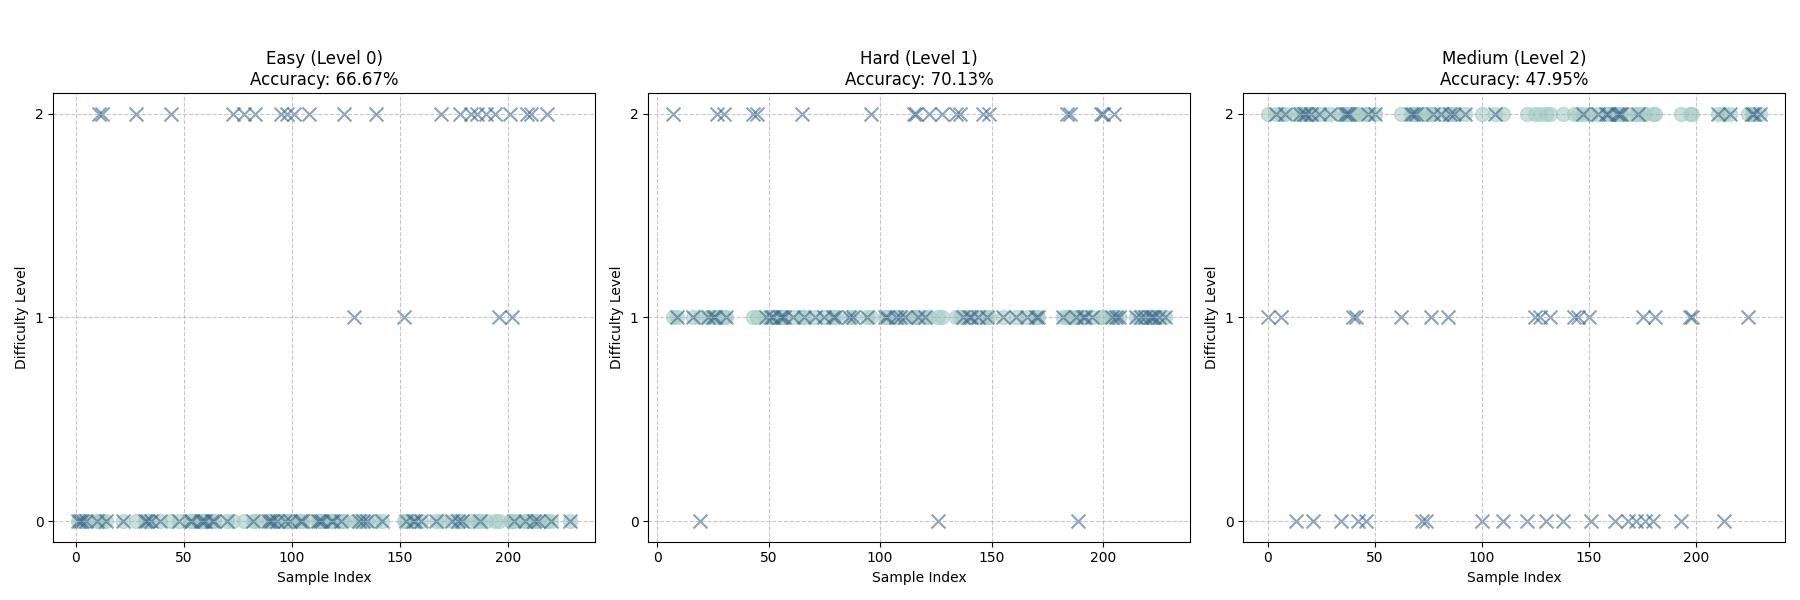
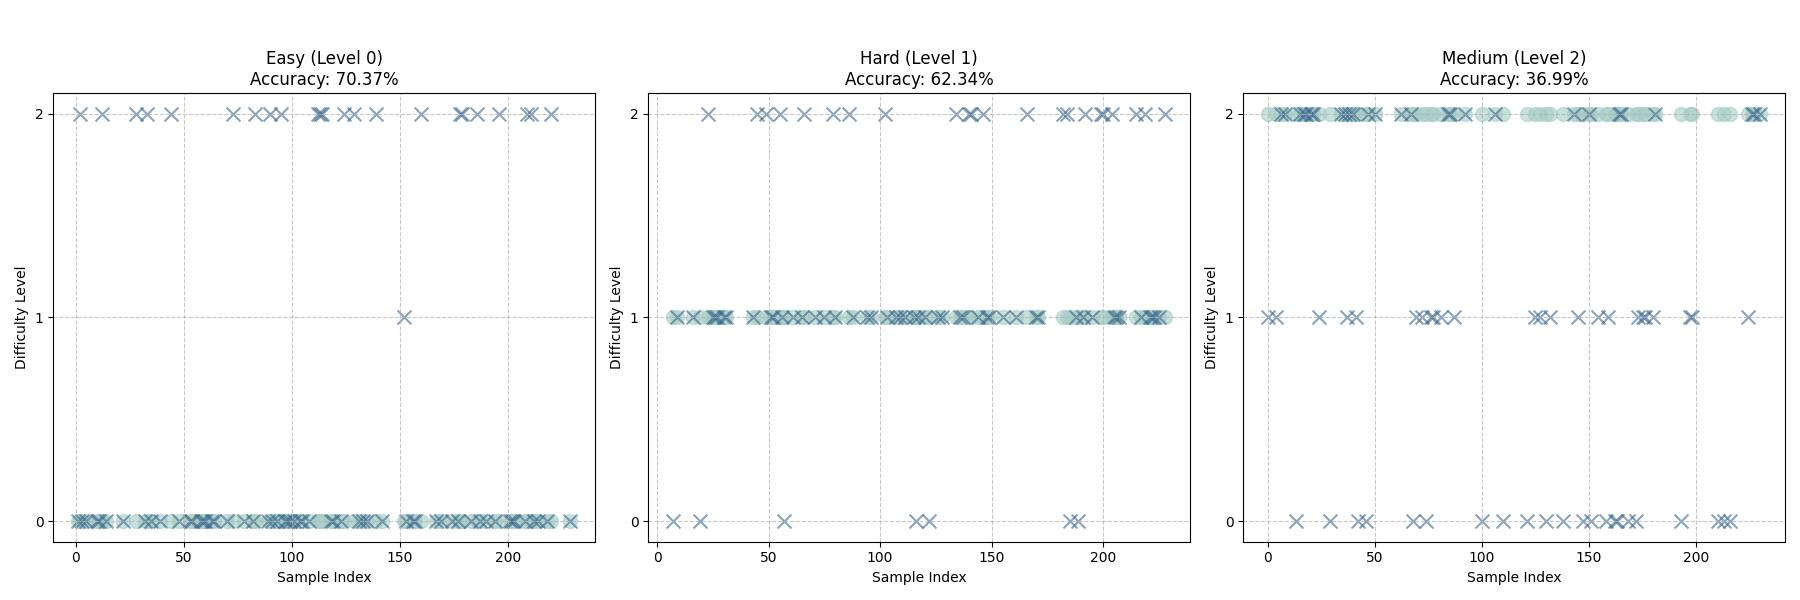
remove smotte

diff --git a/ml_models.py b/ml_models.py
@@ -619,9 +619,9 @@ def difficulty_classification(df, top_in_tfidf, related_topics, nn_result):
     X = pd.concat([X, df[related_topics]], axis=1)
     y = df["difficulty"]
 
-    # Handling Class Imbalance
-    smote = SMOTE(random_state=42)
-    X, y = smote.fit_resample(X, y)
+    # # Handling Class Imbalance
+    # smote = SMOTE(random_state=42)
+    # X, y = smote.fit_resample(X, y)
 
     X_train, X_test, y_train, y_test = train_test_split(X, y, test_size=0.2, random_state=42)
 
@@ -894,9 +894,9 @@ def difficulty_classification_nn(df, top_in_tfidf, related_topics, seed=42):
     X = pd.concat([X, df[related_topics]], axis=1)
     y = df["difficulty"]
 
-    # Handling Class Imbalance
-    smote = SMOTE(random_state=seed)
-    X, y = smote.fit_resample(X, y)
+    # # Handling Class Imbalance
+    # smote = SMOTE(random_state=seed)
+    # X, y = smote.fit_resample(X, y)
 
     # Scale features
     scaler = StandardScaler()
@@ -1056,8 +1056,7 @@ def difficulty_classification_nn(df, top_in_tfidf, related_topics, seed=42):
 
 
 if __name__ == '__main__':
-    json_url = 'https://raw.githubusercontent.com/NoaFishman/leetcode_ml_project/refs/heads/main/data_files/encoding_metadata.json'
-    with open(json_url, "r") as f:
+    with open('data_files/encoding_metadata.json', "r") as f:
         encoding_metadata = json.load(f)
 
     metrics_dict_likes = {}
